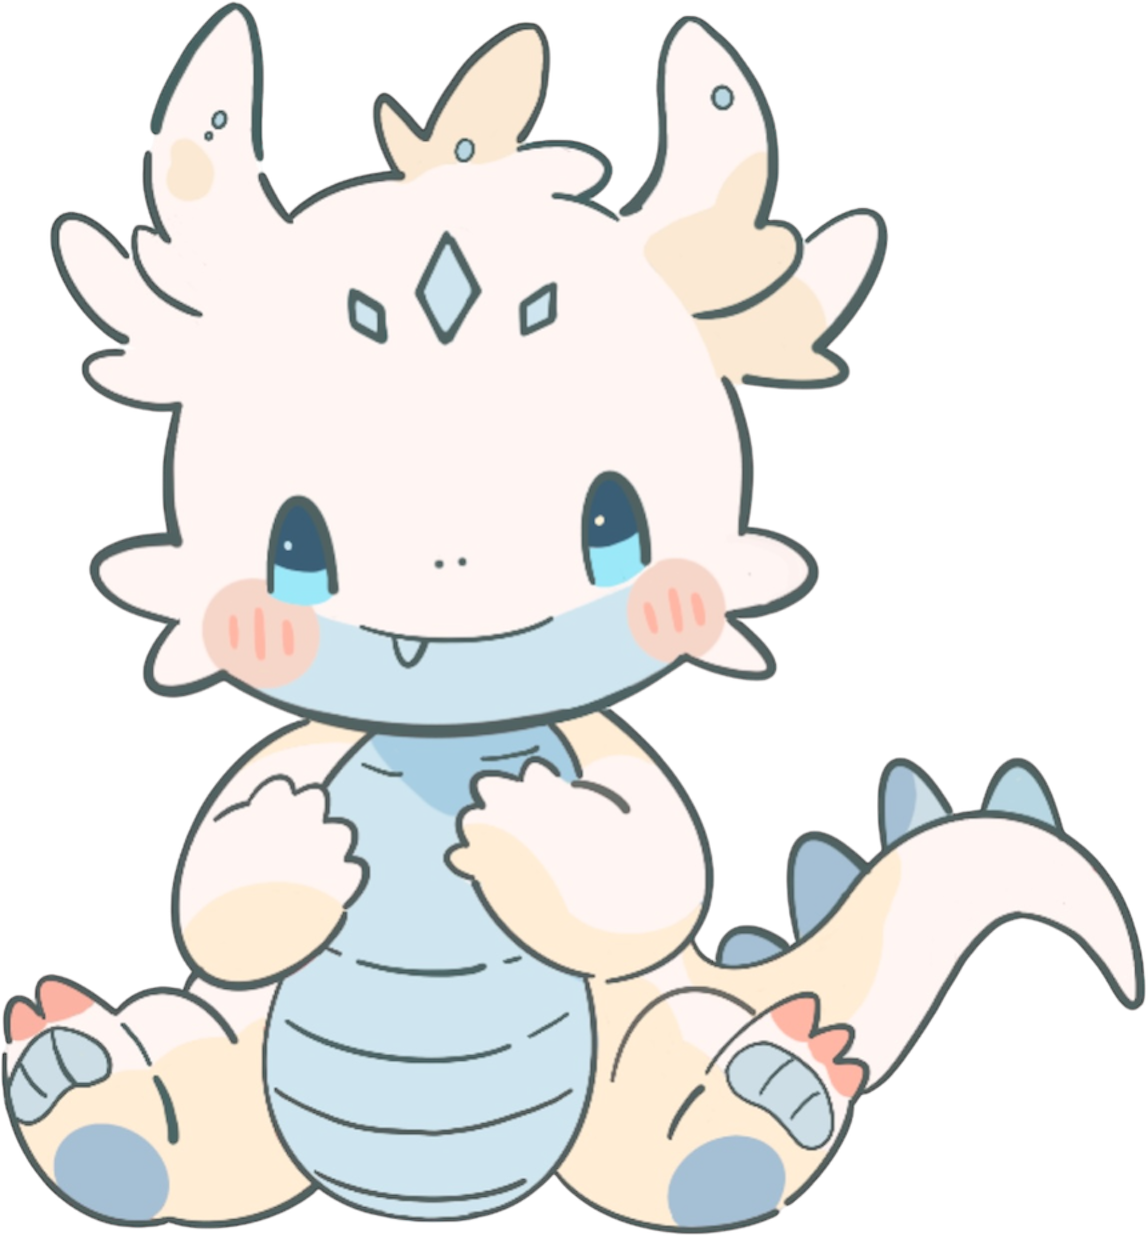
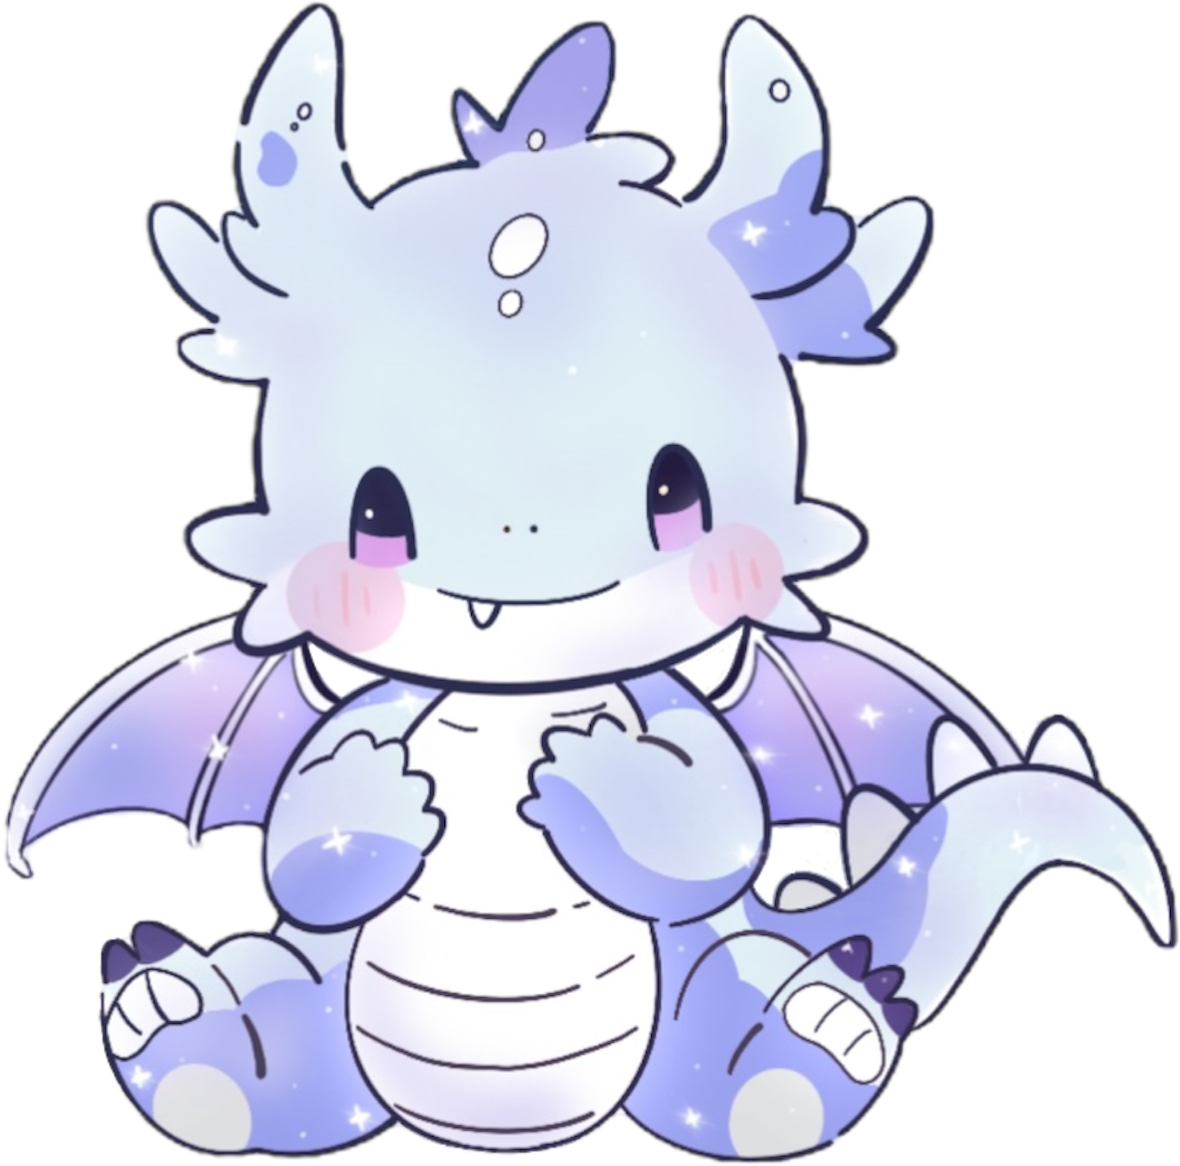
Added new dragons.

diff --git a/database.py b/database.py
@@ -47,7 +47,8 @@ class Database:
                                    "Last Day Logged": 0,
                                    "Game Credit": 0,
                                    "Sleep Points": 0,
-                                   "Dragon Level": 0
+                                   "Dragon Level": 0,
+                                   "Upgrade Status": False
                                    })
            return True
 
@@ -128,19 +129,19 @@ class Database:
    def dragon_level_up (self, userID):
        user = self.users.find_one({"UserID": userID}, {"Sleep Points": 1, "_id": 0})
        if user and user.get("Sleep Points", 0) == 3:
-           self.users.update_one({"UserID": userID}, {"$inc": {"Dragon Level": 1}})
+           self.users.update_one({"UserID": userID}, {"$inc": {"Dragon Level": 1}, "$set": {"Upgrade Status": True}})
            return True
        elif user and user.get("Sleep Points", 0) == 10:
-           self.users.update_one({"UserID": userID}, {"$inc": {"Dragon Level": 1}})
+           self.users.update_one({"UserID": userID}, {"$inc": {"Dragon Level": 1}, "$set": {"Upgrade Status": True}})
            return True
        elif user and user.get("Sleep Points", 0) == 20:
-           self.users.update_one({"UserID": userID}, {"$inc": {"Dragon Level": 1}})
+           self.users.update_one({"UserID": userID}, {"$inc": {"Dragon Level": 1}, "$set": {"Upgrade Status": True}})
            return True
        elif user and user.get("Sleep Points", 0) == 30:
-           self.users.update_one({"UserID": userID}, {"$inc": {"Dragon Level": 1}})
+           self.users.update_one({"UserID": userID}, {"$inc": {"Dragon Level": 1}, "$set": {"Upgrade Status": True}})
            return True
        elif user and user.get("Sleep Points", 0) == 40:
-           self.users.update_one({"UserID": userID}, {"$inc": {"Dragon Level": 1}})
+           self.users.update_one({"UserID": userID}, {"$inc": {"Dragon Level": 1}, "$set": {"Upgrade Status": True}})
            return True
        else:
            return False

diff --git a/log_sleep.py b/log_sleep.py
@@ -135,6 +135,7 @@ def checkDragonLevel():
    database = Database()
    result = database.get_dragon_level(session['username'])
    return jsonify({"level": result})
+
 @app.route('/api/upgrade_dragon')
 def canUpgradeDragon():
   database = Database()
